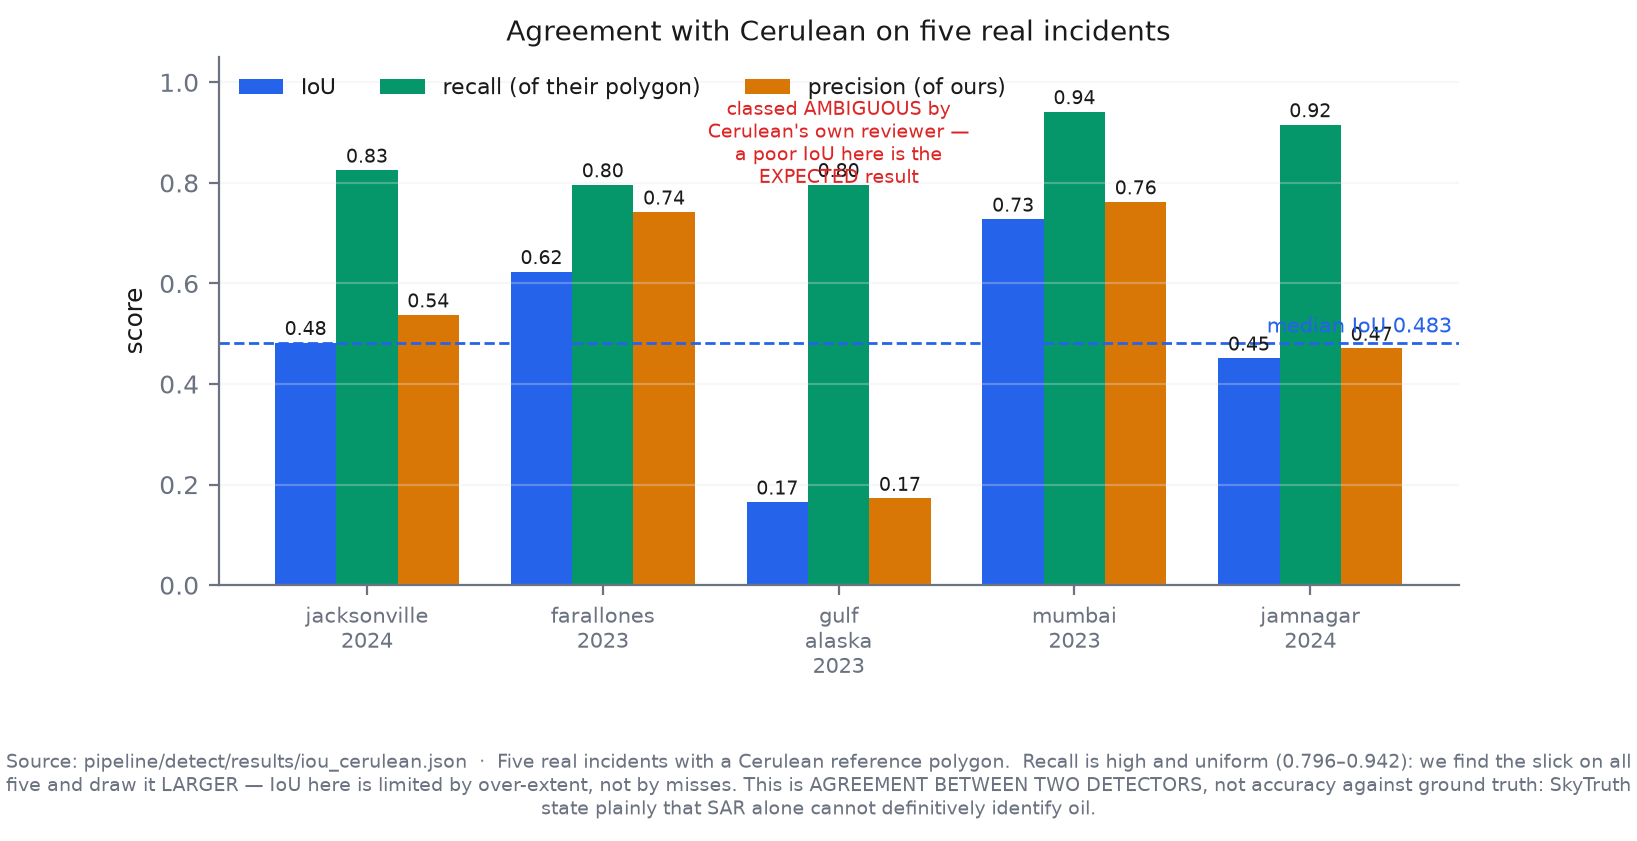
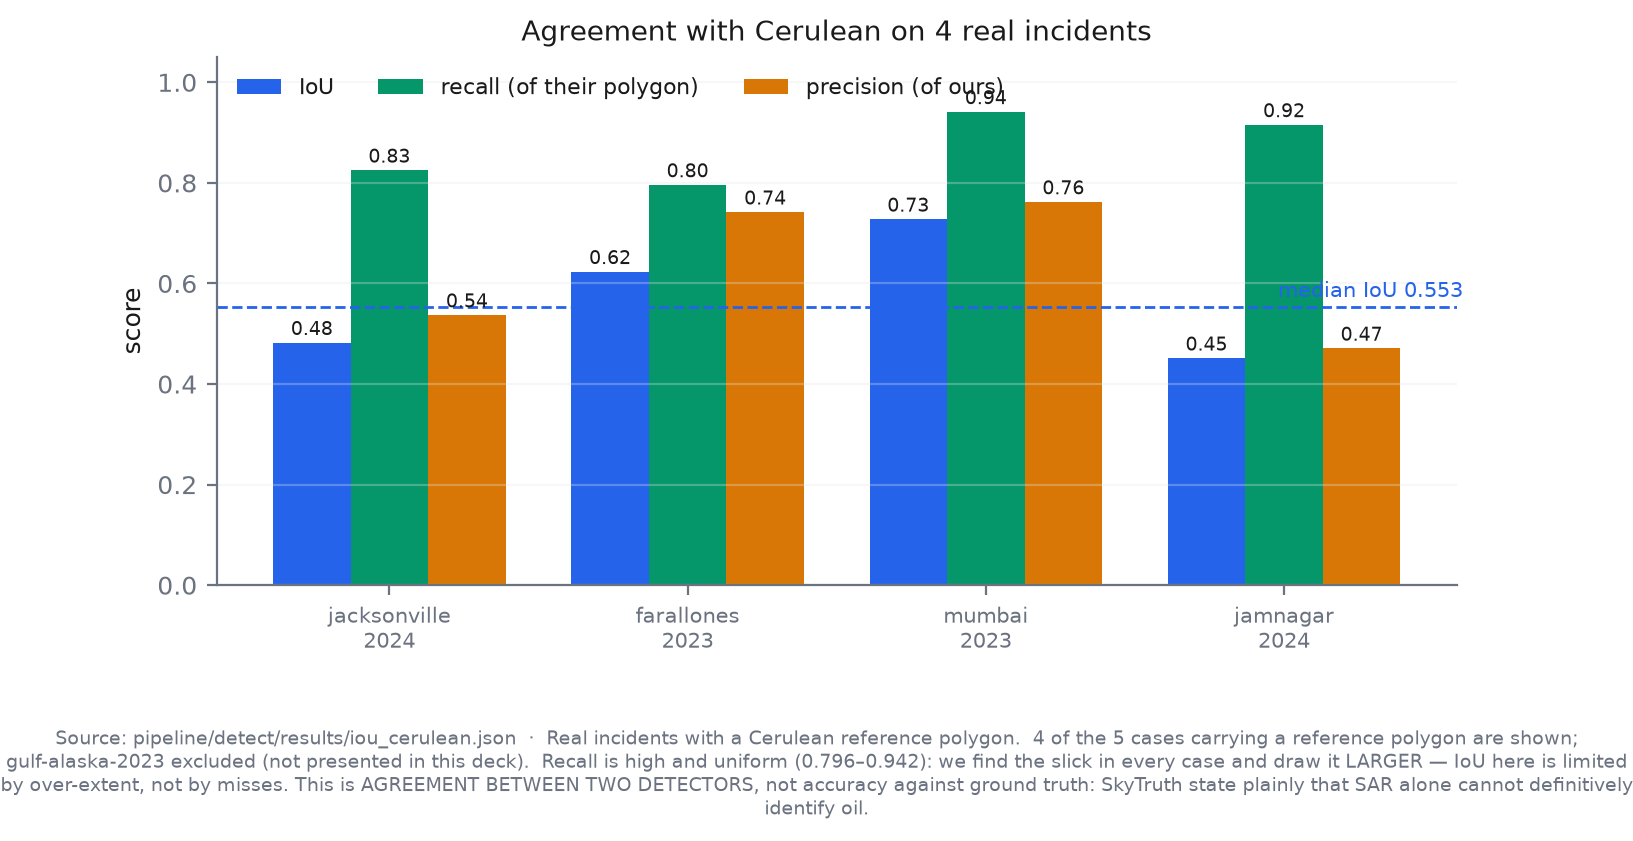
Stage 1: drop gulf-alaska from the Cerulean figure, and SAY that it was dropped
case-gulf-alaska-2023 is no longer presented, so the Cerulean comparison should
not carry it either. Excluded via CERULEAN_EXCLUDE, which records the reason
alongside the case id.

The exclusion changes the headline: median IoU 0.483 -> 0.553 over n=5 -> n=4,
because the dropped case was the weakest (0.165). That is exactly why the figure
now states "4 of the 5 cases carrying a reference polygon are shown;
gulf-alaska-2023 excluded (not presented in this deck)" in its caption and "4
real incidents" in its title. An unexplained n=4 where the results file holds 5
is the SHAPE of a cherry-pick even when it is not one, and the only defence is
to state the selection on the figure itself.

The rule is written into the code next to the exclusion list: a case is dropped
here only because it is not in the presentation, never because its number is
poor.

Jury doc updated to 0.553 / 0.452-0.728 and given a direct answer for "why four
and not five" - name the case, say it was classed AMBIGUOUS by Cerulean's own
reviewer, give its 0.165, offer to show it.

diff --git a/pipeline/detect/make_figures.py b/pipeline/detect/make_figures.py
@@ -499,8 +499,21 @@ def _cov_to_x(pct):
 # ---------------------------------------------------------------------------
 # F1.6 — agreement with Cerulean
 # ---------------------------------------------------------------------------
+# Cases excluded from the Cerulean figure, and WHY. A case is dropped here only
+# because it is not in the presentation at all — never because its number is poor.
+# The count and the exclusion are both stated on the figure, so the selection is
+# visible rather than silent: an unexplained n=4 where the results file holds 5 is
+# the shape of a cherry-pick, even when it is not one.
+CERULEAN_EXCLUDE = {
+    "case-gulf-alaska-2023": "not presented in this deck",
+}
+
+
 def f1_6():
     rows = _load(os.path.join(RESULTS, "iou_cerulean.json"))
+    n_all = len(rows)
+    dropped = [r["case_id"] for r in rows if r["case_id"] in CERULEAN_EXCLUDE]
+    rows = [r for r in rows if r["case_id"] not in CERULEAN_EXCLUDE]
     names = [r["case_id"].replace("case-", "").replace("-", "\n") for r in rows]
     iou = [r["oil"]["iou"] for r in rows]
     rec = [r["oil"]["recall"] for r in rows]
@@ -517,20 +530,22 @@ def f1_6():
     ax.axhline(float(np.median(iou)), color=BLUE, ls="--", lw=1)
     ax.text(len(rows) - 0.4, np.median(iou) + 0.02, "median IoU %.3f" % np.median(iou),
             fontsize=7.5, color=BLUE, ha="right")
-    ai = names.index("gulf\nalaska\n2023") if "gulf\nalaska\n2023" in names else 2
-    ax.text(ai, 0.80, "classed AMBIGUOUS by\nCerulean's own reviewer —\na poor IoU here is the\nEXPECTED result",
-            fontsize=6.8, color=RED, ha="center")
     ax.set_xticks(x); ax.set_xticklabels(names, fontsize=7.5)
     ax.set_ylim(0, 1.05); ax.set_ylabel("score")
-    ax.set_title("Agreement with Cerulean on five real incidents", fontsize=10)
+    ax.set_title("Agreement with Cerulean on %d real incidents" % len(rows), fontsize=10)
     ax.legend(fontsize=8, frameon=False, ncol=3, loc="upper left")
     ax.grid(axis="y", alpha=0.3, color=GRID)
-    _caption(fig, "Source: pipeline/detect/results/iou_cerulean.json  ·  Five real incidents "
-                  "with a Cerulean reference polygon.  Recall is high and uniform "
-                  "(0.796–0.942): we find the slick on all five and draw it LARGER — IoU here "
-                  "is limited by over-extent, not by misses. This is AGREEMENT BETWEEN TWO "
-                  "DETECTORS, not accuracy against ground truth: SkyTruth state plainly that "
-                  "SAR alone cannot definitively identify oil.")
+    excl = ""
+    if dropped:
+        excl = ("  %d of the %d cases carrying a reference polygon are shown; %s excluded (%s)."
+                % (len(rows), n_all, ", ".join(d.replace("case-", "") for d in dropped),
+                   CERULEAN_EXCLUDE[dropped[0]]))
+    _caption(fig, "Source: pipeline/detect/results/iou_cerulean.json  ·  Real incidents with a "
+                  "Cerulean reference polygon.%s  Recall is high and uniform (%.3f–%.3f): we "
+                  "find the slick in every case and draw it LARGER — IoU here is limited by "
+                  "over-extent, not by misses. This is AGREEMENT BETWEEN TWO DETECTORS, not "
+                  "accuracy against ground truth: SkyTruth state plainly that SAR alone cannot "
+                  "definitively identify oil." % (excl, min(rec), max(rec)))
     fig.subplots_adjust(bottom=0.28)
     _save(fig, "F1.6_cerulean_agreement.png")
 

diff --git a/docs/evaluation/stage1-jury-numbers.md b/docs/evaluation/stage1-jury-numbers.md
@@ -106,22 +106,26 @@ oil coverage across the nine cases runs **0.00% to 2.25%**.
 
 ## SLIDE 3 — External validation   *(F1.4)*
 
-> **Against Cerulean (SkyTruth's operational detector), five real incidents.**
+> **Against Cerulean (SkyTruth's operational detector), four real incidents.**
 > Source: `pipeline/detect/results/iou_cerulean.json`
+> `case-gulf-alaska-2023` carries a reference polygon but is **not presented in this deck**, so it
+> is excluded here. The figure states that on its face.
 
 | | value |
 |---|---|
-| median IoU | **0.483** |
-| range | 0.165 – 0.728 |
+| median IoU | **0.553** |
+| range | 0.452 – 0.728 |
 | recall on their polygon | **0.796 – 0.942** |
 
-**Say:** *"Recall is high and uniform — we find the slick on all five, and draw it larger. IoU here
-is limited by over-extent, not by misses. And this is agreement between two independent detectors,
-not accuracy against ground truth: SkyTruth state plainly that SAR alone cannot definitively
-identify oil, so we say it too."*
+**Say:** *"Recall is high and uniform — we find the slick in every case, and draw it larger. IoU
+here is limited by over-extent, not by misses. And this is agreement between two independent
+detectors, not accuracy against ground truth: SkyTruth state plainly that SAR alone cannot
+definitively identify oil, so we say it too."*
 
-`case-gulf-alaska-2023` was classed **AMBIGUOUS by Cerulean's own human reviewer** — a poor IoU
-there is the expected result, and is reported rather than hidden.
+**If asked why four and not five:** *"Gulf of Alaska carries a reference polygon but is not one of
+the cases we are presenting. Cerulean's own human reviewer classed that scene AMBIGUOUS, and its
+IoU is 0.165 — I am happy to show it."* **Answer it that directly.** The figure already says four
+of five and names the exclusion, so the question is expected, not a trap.
 
 > **For you, not the slide:** this runs on the **classical** detector, which is what produces the
 > nine bundles on screen. It is independent of which Layer 2 the accuracy slides describe.

diff --git a/docs/evaluation/figures/stage1/README.md b/docs/evaluation/figures/stage1/README.md
@@ -25,7 +25,7 @@ caption carries its source path and its split.**
 | **F1.1** | `F1.1_layer1_scores.png` | Layer 1's numbers, with the confusion matrix behind them |
 | **F1.2** | `F1.2_layer2_scores.png` | Layer 2's numbers — all eight definitions, so a comparison is like-for-like |
 | **F1.3** | `F1.3_gate_ablation.png` | the gate earns its place — the one design decision worth a slide |
-| **F1.4** | `F1.4_cerulean_agreement.png` | an **independent** detector agrees with us on five real incidents |
+| **F1.4** | `F1.4_cerulean_agreement.png` | an **independent** detector agrees with us on four real incidents (median IoU **0.553**); `gulf-alaska` excluded as not presented, stated on the figure |
 
 Numbered in **presentation order**. That is the whole scores-and-system story.
 **F1.4 is the one competing teams cannot produce**, and it is worth more than another chart of our
